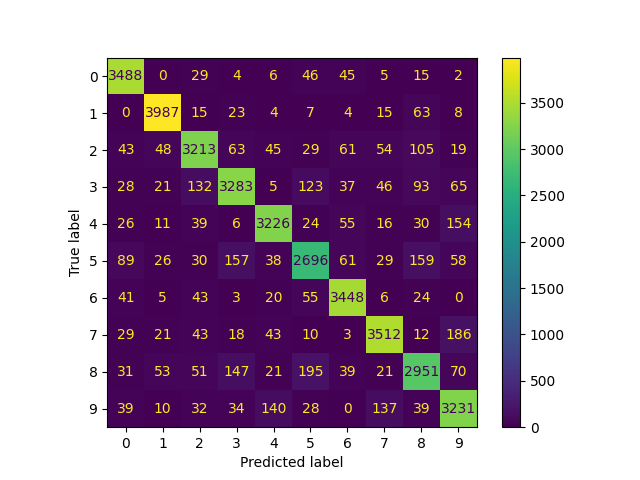
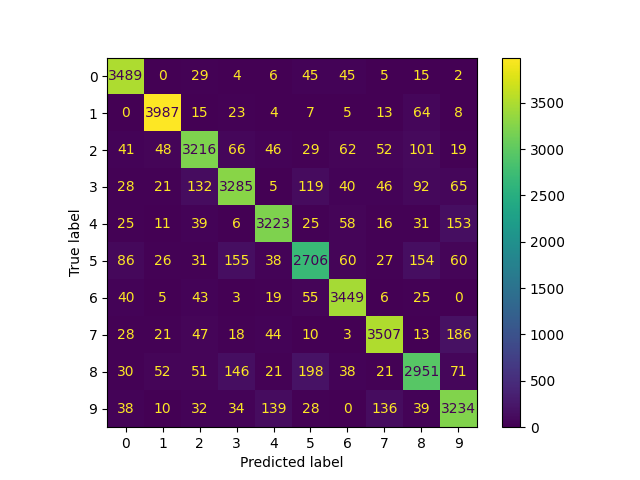
change l2 to l1

diff --git a/LR.py b/LR.py
@@ -11,7 +11,7 @@ labels, digits = tools.read_data()
 digits = np.array(digits)
 X_train, X_test, y_train, y_test = train_test_split(digits, labels, test_size=37000, random_state=42, stratify=labels)
 print(len(X_train))
-clf = LogisticRegression(penalty='l1', solver='saga', C=1 , tol=1e-2, multi_class='multinomial', max_iter = 100, n_jobs=-1)
+clf = LogisticRegression(penalty='l1', solver='saga', C=14 , tol=1e-2, multi_class='multinomial', max_iter = 100, n_jobs=-1)
 clf.fit(X_train, y_train)
 print(clf.score(X_test, y_test))  # score is 0.89
 
